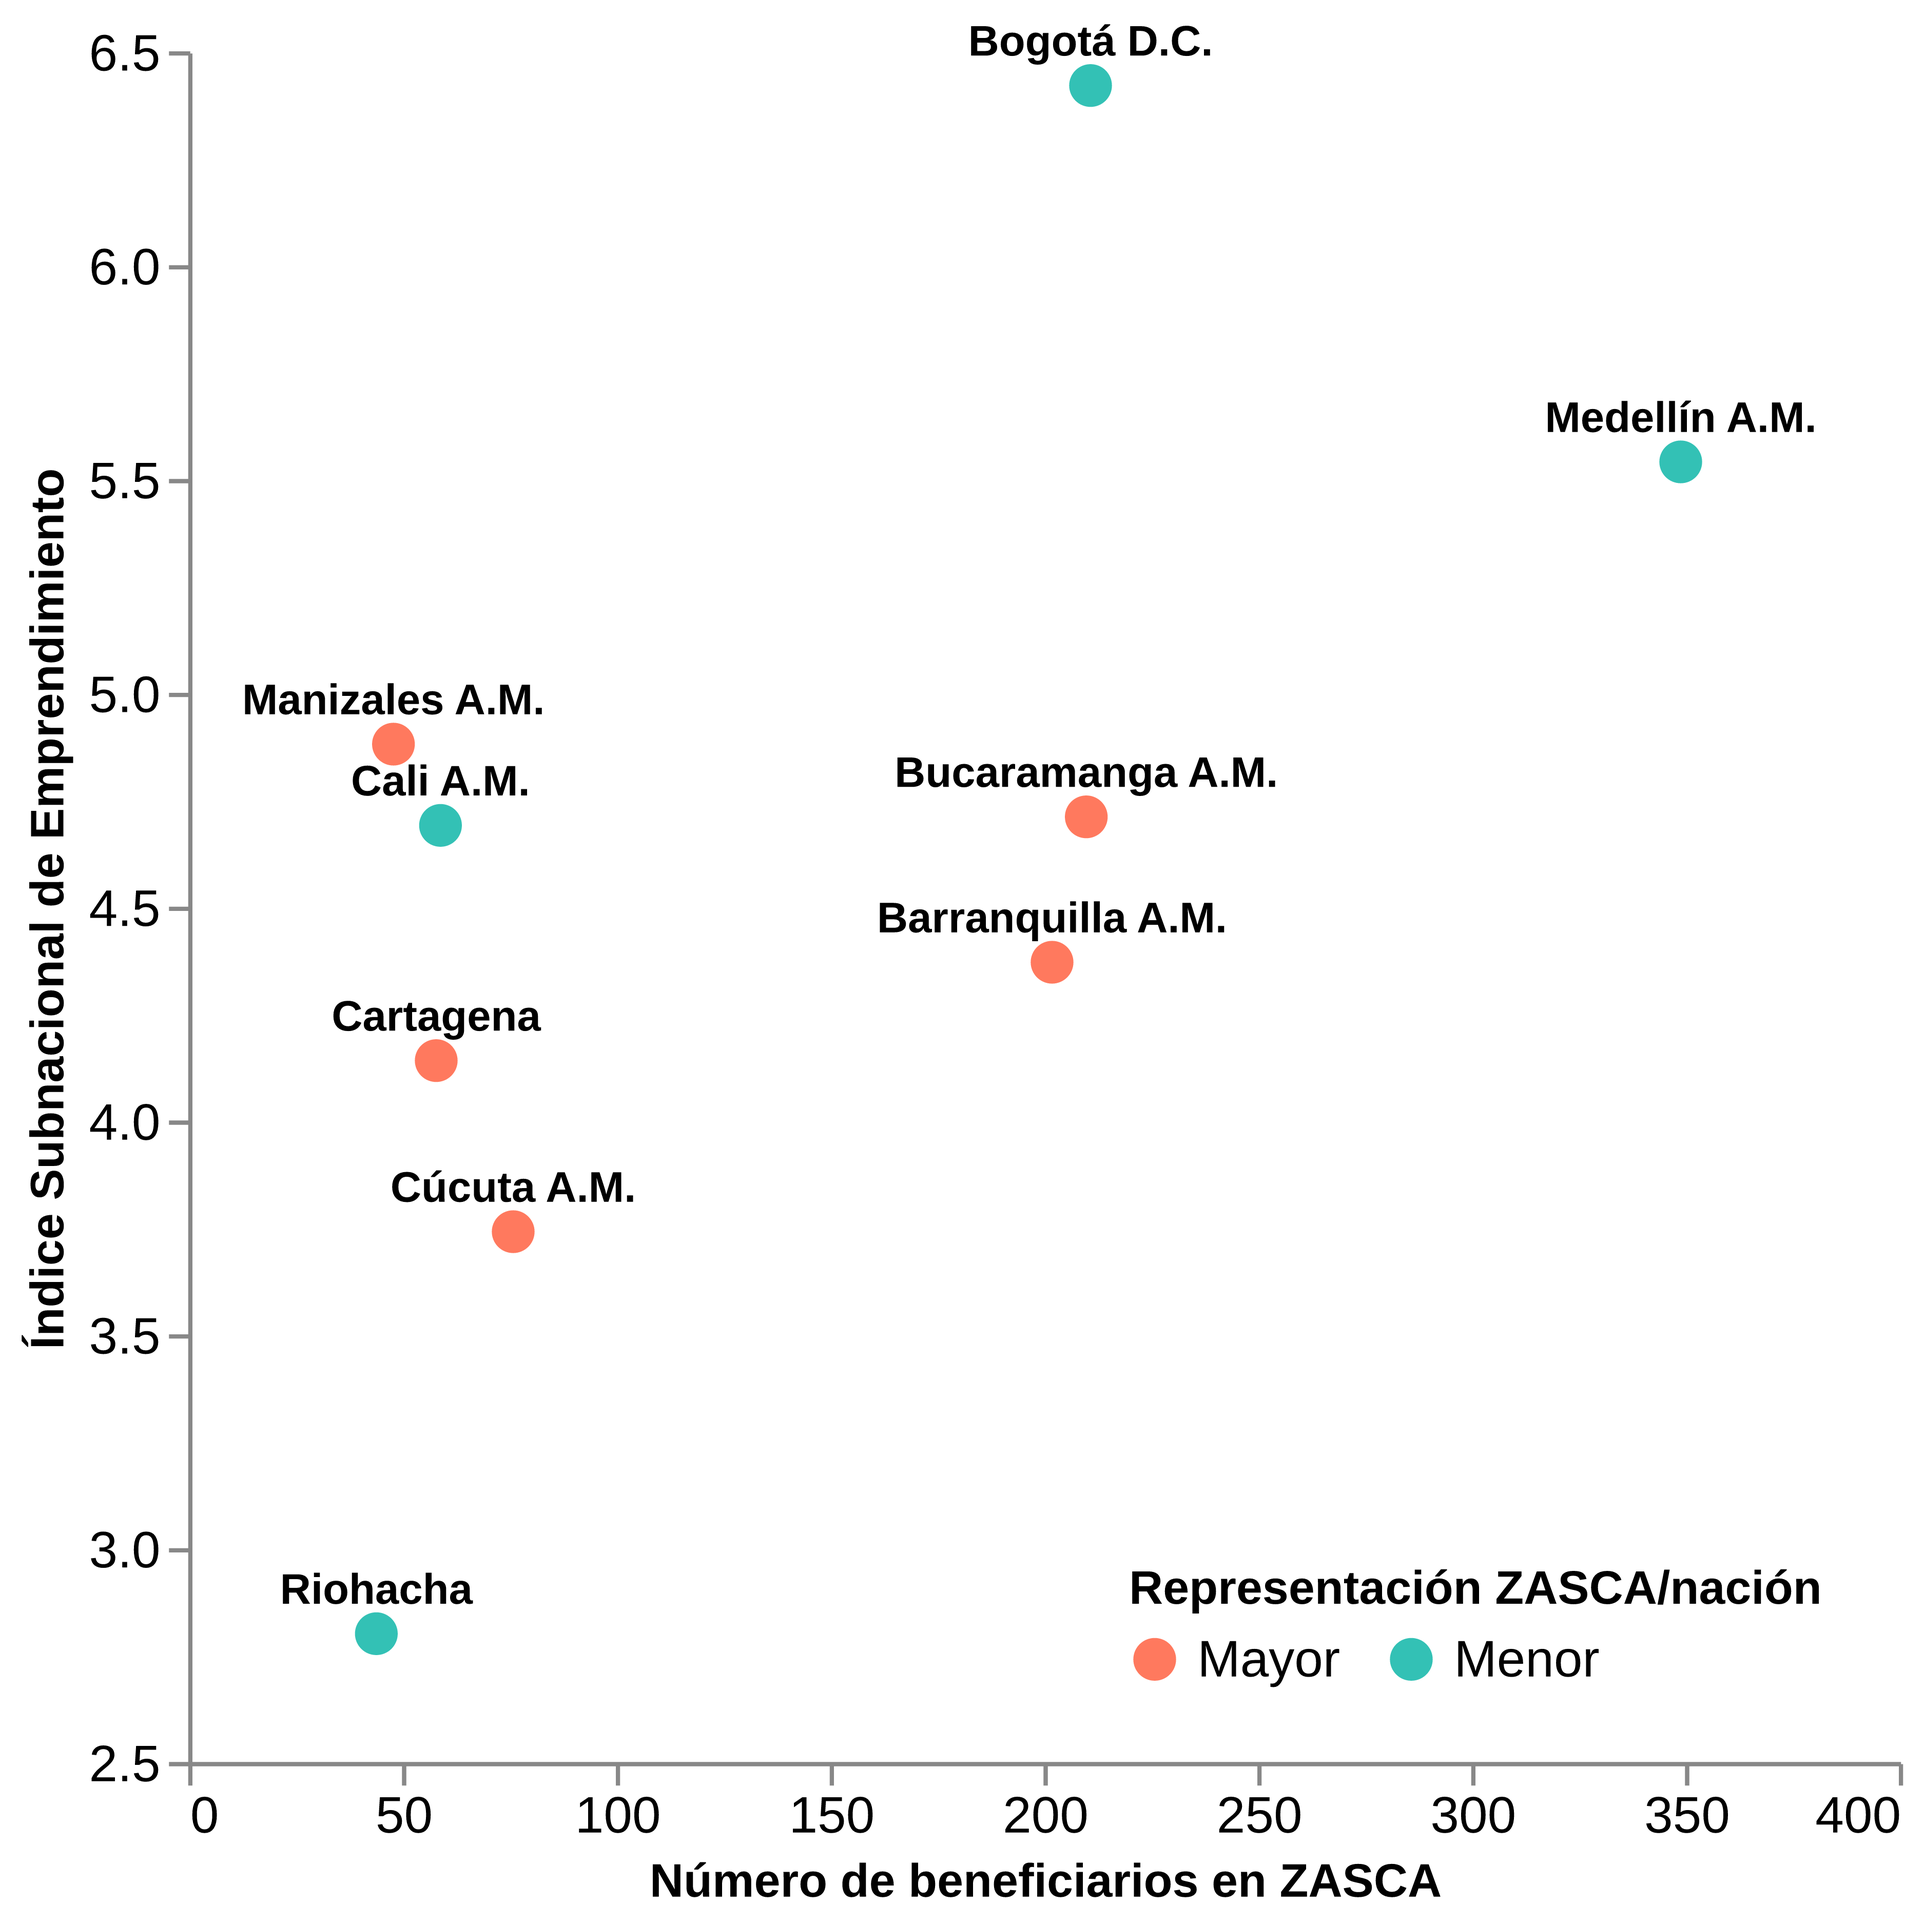
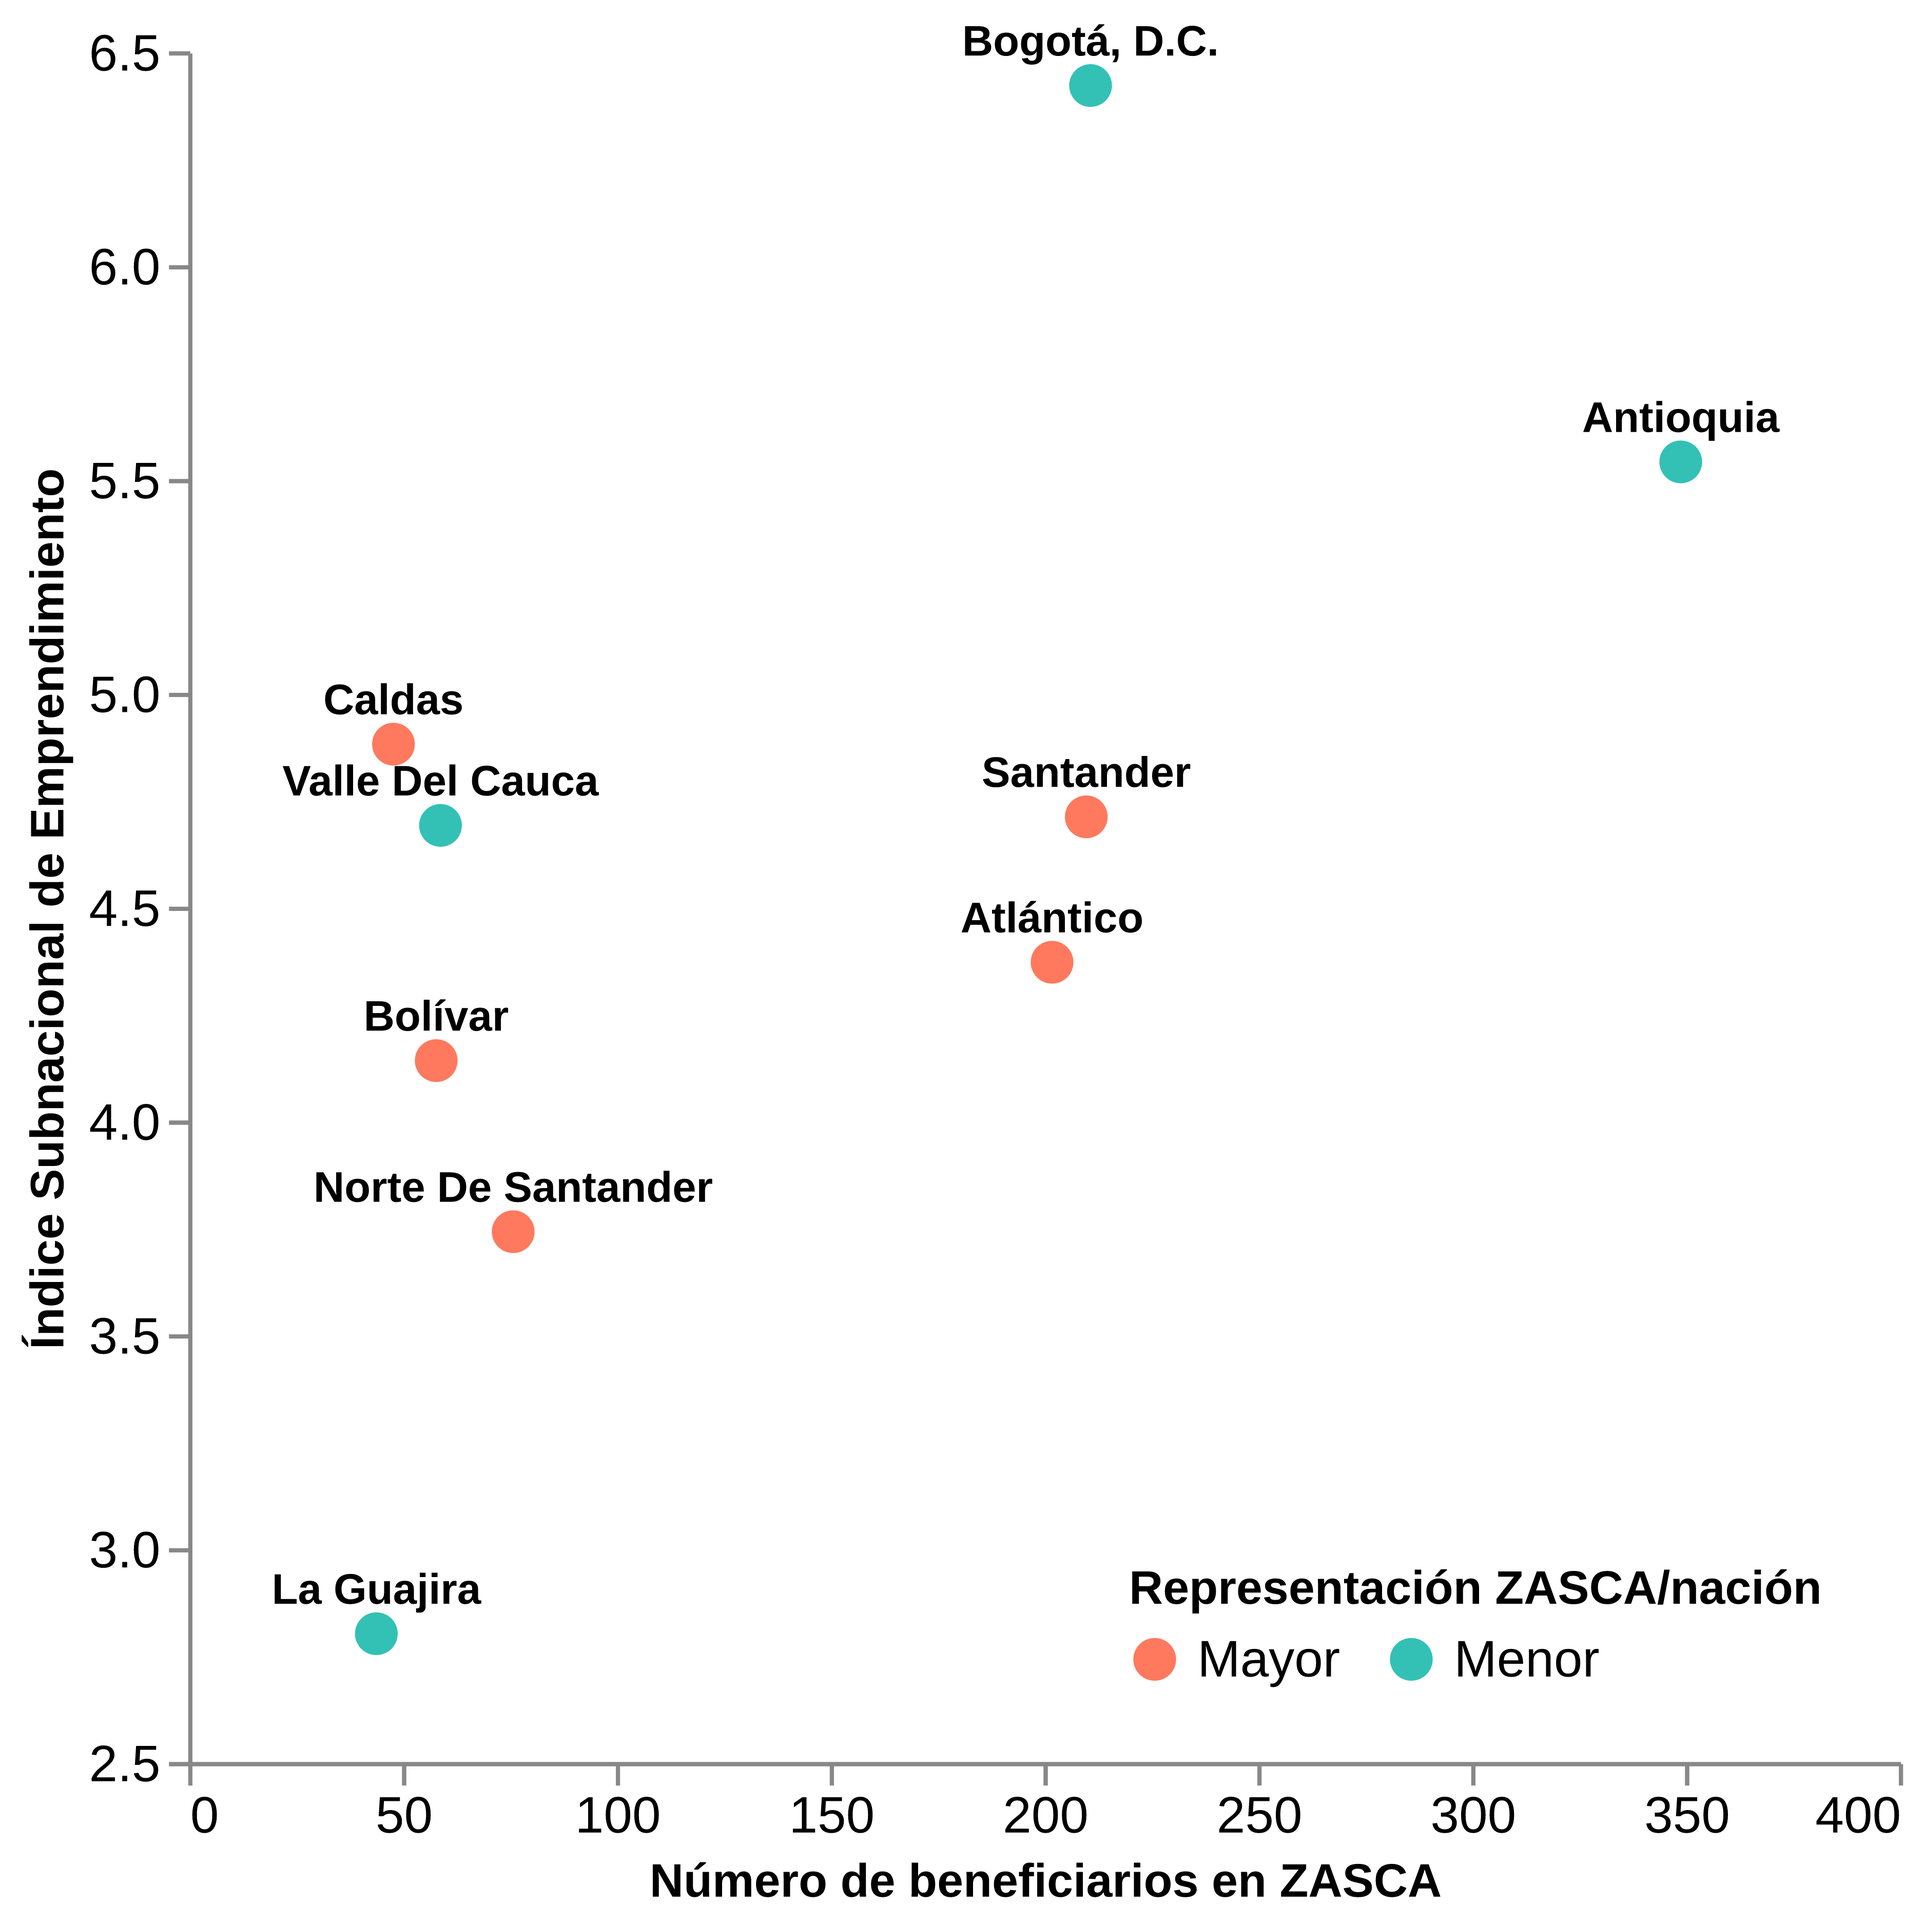
update department names and fix utils warning

diff --git a/scripts/descriptive/data_processing/utils.py b/scripts/descriptive/data_processing/utils.py
@@ -48,15 +48,16 @@ def apply_sector_filter(func):
         # extract filtro_por_sector from kwargs
         filtro_por_sector = kwargs.pop("filtro_por_sector", None)
 
-        # filter both zasca and emicron data before applying function
+        # filter both zasca and other data before applying function
         if filtro_por_sector and len(args) >= TUPLE_SIZE:
-            df_zasca, df_emicron = args[0], args[1]
+            df_zasca, df_other = args[0], args[1]
             df_zasca = _filter_by_sector(df_zasca, filtro_por_sector)
             try:
-                df_emicron = _filter_by_sector(df_emicron, filtro_por_sector)
+                df_other = _filter_by_sector(df_other, filtro_por_sector)
             except Exception as e:  # noqa: BLE001
-                logger.warning("Warning: Failed to filter emicron data for sector %s: %s", filtro_por_sector, e)
-            args = (df_zasca, df_emicron, *args[2:])
+                other_name = args[1].__class__.__name__
+                logger.warning("Warning: Failed to filter %s data for sector %s: %s", other_name, filtro_por_sector, e)
+            args = (df_zasca, df_other, *args[2:])
         else:
             # assume it's zasca
             df_zasca = _filter_by_sector(args[0], filtro_por_sector)

diff --git a/scripts/descriptive/data_processing/department_representation.py b/scripts/descriptive/data_processing/department_representation.py
@@ -58,7 +58,9 @@ def department_representation_analysis(
 
     # add ISEM data
     result_df["isem_score"] = result_df["COD_DEPTO"].map(df_isem.set_index("Código DANE")["Puntaje ISEM"])  # type: ignore[reportArgumentType]
-    result_df["dept_name"] = result_df["COD_DEPTO"].map(df_isem.set_index("Código DANE")["Ciudad/Área Metropolitana"])  # type: ignore[reportArgumentType]
+    result_df["dept_name"] = result_df["COD_DEPTO"].map(
+        df_zasca[["COD_DEPTO", "dpto"]].drop_duplicates().set_index("COD_DEPTO")["dpto"]  # type: ignore[reportArgumentType]
+    ).str.title()
 
     # calculate proportions over shared departments only
     shared_departments = set(zasca_counts.index) & set(emicron_population.index)
